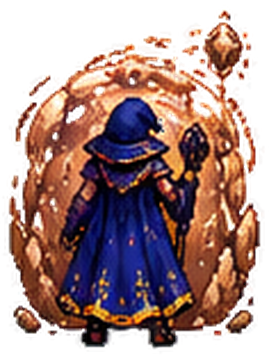
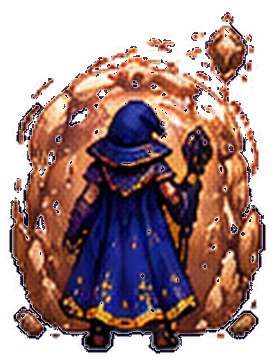
v44: contorno e limpeza de pontos brancos, projéteis de luz, brilho no cajado, poses de carregamento, sem andar, idle calmo
Claude-Session: https://claude.ai/code/session_01YFC38PcyDKAfPNhJ7r1cKG

diff --git a/mage.js b/mage.js
@@ -4,7 +4,7 @@
    Só a Maga usa isto; os outros personagens continuam como imagem/sprite sheets. */
 (() => {
 'use strict';
-const POSES = ['idle1','idle2','idle3','idle4','atk1','atk2','atk3','fire','water','air','earth','castdef','defmana','deffire','defwater','defair','defearth','dodge1','dodge2','dodge3','dodge4','bh1','bh2','walk1','walk2','walk3','walk4','walk5','run1','run2','run3','run4','spin1','stars','spinwide','swingf','swingl','swingr'];
+const POSES = ['idle1','idle2','idle3','idle4','atk1','atk2','atk3','fire','water','air','earth','castdef','defmana','deffire','defwater','defair','defearth','dodge1','dodge2','dodge3','dodge4','bh1','bh2','spin1','stars','spinwide','swingf','swingl','swingr'];
 const FXS = ['comet','orbb','fire_fall','water_pillar','air_swirl','earth_spikes','rock','bh_small','bh_spikes','bh_big','bh_big2','bolt','cross','crystal','whirl','mana_aura','orb_red','orb_orange','orb_blue','star_big','star_small','rocks'];
 const T = {x:517, y:340};                                    // alvo no chefe (design 1024x1536)
 const BASE = 258;                                            // linha da barra do manto dentro do sprite 209x284
@@ -18,29 +18,35 @@ const seg = (u, a, b) => clamp((u - a) / (b - a));
 const S = (d, steps, ev = [], o = {}) => ({dur:d, steps, ev, ...o});
 const ACT = {
   melee:[
-    S(1050, [[0,'idle1'],[.12,'atk1',{dx:-4,rot:-2}],[.3,'atk2',{dx:-8,rot:-4}],[.48,'atk3',{dx:6,dy:-6,rot:3}],[.8,'atk3',{dx:2,rot:1}],[.96,'idle1']], [[.47,'shot:orbb:1'],[.78,'hit:small']]),
-    S(1250, [[0,'idle1'],[.14,'atk1',{dx:-6}],[.36,'swingf',{dx:-2}],[.52,'swingf',{dx:10}],[.8,'swingf',{dx:6}],[.96,'idle1']], [[.4,'shot:orbb:1'],[.66,'hit:small']]),
-    S(1500, [[0,'idle1'],[.1,'atk1',{dx:-4}],[.26,'swingr',{dx:-4,rot:-2}],[.46,'swingl',{dx:4,rot:2}],[.72,'swingl',{dx:6}],[.96,'idle1']], [[.3,'shot:orbb:.9'],[.5,'shot:orbb:1'],[.72,'hit:small']]),
-    S(1500, [[0,'idle1'],[.12,'atk1',{dx:-4}],[.3,'spin1',{dy:-6}],[.48,'spinwide',{dy:-12,rot:3}],[.66,'stars',{dy:-4}],[.82,'stars'],[.96,'idle1']], [[.32,'cheer'],[.56,'shot:orbb:1'],[.78,'hit:small']]),
-    S(1700, [[0,'idle1'],[.08,'run1',{dy:-4}],[.17,'run2',{dy:-18,sc:.97}],[.26,'run3',{dy:-34,sc:.94}],[.35,'run4',{dy:-48,sc:.92}],[.46,'atk3',{dy:-48,sc:.92,rot:3}],[.6,'atk3',{dy:-48,sc:.92}],[.7,'dodge2',{dx:10,dy:-24,sc:.96}],[.8,'dodge4',{dy:-8}],[.95,'idle1']], [[.46,'shot:orbb:1'],[.58,'hit:small']]),
+    S(1050, [[0,'idle1'],[.12,'atk1',{dx:-4,rot:-2}],[.3,'atk2',{dx:-8,rot:-4}],[.48,'atk3',{dx:6,dy:-6,rot:3}],[.8,'atk3',{dx:2,rot:1}],[.96,'idle1']], [[.2,'charge'],[.47,'shot:orbb:1'],[.78,'hit:small']]),
+    S(1300, [[0,'idle1'],[.14,'atk1',{dx:-6}],[.36,'swingf',{dx:-2}],[.52,'swingf',{dx:10}],[.8,'swingf',{dx:6}],[.96,'idle1']], [[.3,'charge'],[.4,'shot:orbb:1'],[.66,'hit:small']]),
+    S(1600, [[0,'idle1'],[.1,'atk1',{dx:-4}],[.26,'swingr',{dx:-4,rot:-2}],[.46,'swingl',{dx:4,rot:2}],[.72,'swingl',{dx:6}],[.96,'idle1']], [[.3,'shot:orbb:.9'],[.5,'shot:orbb:1'],[.72,'hit:small']]),
+    S(1600, [[0,'idle1'],[.12,'atk1',{dx:-4}],[.3,'spin1',{dy:-6}],[.48,'spinwide',{dy:-12,rot:3}],[.66,'stars',{dy:-4}],[.82,'stars'],[.96,'idle1']], [[.32,'cheer'],[.56,'shot:orbb:1'],[.78,'hit:small']]),
+    S(1500, [[0,'idle1'],[.14,'air',{dx:-4}],[.34,'swingf',{dx:4}],[.62,'swingf',{dx:8}],[.96,'idle1']], [[.14,'charge'],[.38,'shot:orbb:1'],[.64,'hit:small']]),
+    S(1600, [[0,'idle1'],[.12,'atk2',{dx:-8,rot:-4}],[.3,'swingr',{dx:-2}],[.5,'atk3',{dx:6,dy:-6,rot:3}],[.8,'atk3',{dx:2}],[.96,'idle1']], [[.32,'cheer'],[.52,'shot:orbb:1'],[.76,'hit:small']]),
+    S(1500, [[0,'idle1'],[.14,'earth',{dx:-4}],[.34,'swingl',{dx:2}],[.58,'swingl',{dx:8}],[.96,'idle1']], [[.16,'charge'],[.4,'shot:orbb:1'],[.64,'hit:small']]),
   ],
   cast:[
-    S(1700, [[0,'idle1'],[.1,'atk1',{dx:-4}],[.3,'atk2',{dx:-10,rot:-4}],[.52,'atk3',{dx:6,dy:-8,rot:3}],[.82,'atk3'],[.97,'idle1']], [[.22,'charge'],[.52,'shot:orbb:1.5'],[.8,'hit:mana']]),
-    S(1900, [[0,'idle1'],[.1,'atk1',{dx:-6}],[.3,'stars',{dy:-6}],[.5,'spin1',{dy:-10}],[.68,'swingf',{dx:6}],[.9,'swingf',{dx:8}],[.98,'idle1']], [[.18,'charge'],[.34,'charge'],[.68,'shot:orbb:1.5'],[.86,'hit:mana']]),
+    S(1700, [[0,'idle1'],[.1,'atk1',{dx:-4}],[.3,'atk2',{dx:-10,rot:-4}],[.52,'atk3',{dx:6,dy:-8,rot:3}],[.82,'atk3'],[.97,'idle1']], [[.22,'charge'],[.52,'shot:orbb:1.5'],[.8,'hit:mana']], {col:'110,170,255'}),
+    S(2000, [[0,'idle1'],[.1,'atk1',{dx:-6}],[.3,'stars',{dy:-6}],[.5,'spin1',{dy:-10}],[.68,'swingf',{dx:6}],[.9,'swingf',{dx:8}],[.98,'idle1']], [[.18,'charge'],[.34,'charge'],[.68,'shot:orbb:1.5'],[.86,'hit:mana']], {col:'110,170,255'}),
+    S(2100, [[0,'idle1'],[.1,'castdef',{dx:-2}],[.3,'castdef',{dy:-4}],[.5,'castdef',{dy:-8}],[.62,'atk3',{dx:6,dy:-8,rot:3}],[.86,'atk3'],[.98,'idle1']], [[.12,'charge'],[.3,'charge'],[.5,'charge'],[.64,'shot:orbb:1.5'],[.86,'hit:mana']], {col:'110,170,255'}),
+    S(2300, [[0,'idle1'],[.1,'castdef'],[.26,'defmana',{dy:-4}],[.56,'defmana',{dy:-8}],[.68,'atk3',{dx:6,dy:-8,rot:3}],[.88,'atk3'],[.98,'idle1']], [[.14,'charge'],[.3,'charge'],[.5,'charge'],[.7,'shot:orbb:1.6'],[.9,'hit:mana']], {col:'120,170,255'}),
+    S(1900, [[0,'idle1'],[.1,'water',{dx:-4}],[.45,'water',{dy:-5}],[.58,'atk3',{dx:6,dy:-8,rot:3}],[.86,'atk3'],[.98,'idle1']], [[.12,'charge'],[.34,'charge'],[.6,'shot:orbb:1.5'],[.84,'hit:mana']], {col:'70,170,255'}),
   ],
   heavy:[
-    S(2300, [[0,'idle1'],[.1,'atk1',{dx:-6}],[.35,'atk2',{dx:-14,rot:-5}],[.55,'atk3',{dx:8,dy:-10,rot:4}],[.86,'atk3',{dx:2}],[.98,'idle1']], [[.15,'charge'],[.3,'charge'],[.56,'shot:comet:1.9'],[.82,'hit:big']]),
-    S(2500, [[0,'idle1'],[.08,'atk1',{dx:-6}],[.22,'spin1',{dy:-8}],[.36,'spinwide',{dy:-16,rot:-3}],[.5,'stars',{dy:-12}],[.64,'swingr',{dx:4,dy:-6}],[.9,'swingr',{dx:8}],[.98,'idle1']], [[.14,'charge'],[.3,'charge'],[.46,'charge'],[.64,'shot:comet:1.9'],[.82,'hit:big']]),
+    S(2300, [[0,'idle1'],[.1,'atk1',{dx:-6}],[.35,'atk2',{dx:-14,rot:-5}],[.55,'atk3',{dx:8,dy:-10,rot:4}],[.86,'atk3',{dx:2}],[.98,'idle1']], [[.15,'charge'],[.3,'charge'],[.56,'shot:comet:1.9'],[.82,'hit:big']], {col:'160,140,255'}),
+    S(2600, [[0,'idle1'],[.08,'atk1',{dx:-6}],[.22,'spin1',{dy:-8}],[.36,'spinwide',{dy:-16,rot:-3}],[.5,'stars',{dy:-12}],[.64,'swingr',{dx:4,dy:-6}],[.9,'swingr',{dx:8}],[.98,'idle1']], [[.14,'charge'],[.3,'charge'],[.46,'charge'],[.64,'shot:comet:1.9'],[.82,'hit:big']], {col:'160,140,255'}),
+    S(2700, [[0,'idle1'],[.08,'castdef'],[.24,'defmana',{dy:-4}],[.5,'defmana',{dy:-10}],[.62,'atk2',{dx:-8,rot:-4}],[.74,'atk3',{dx:8,dy:-10,rot:4}],[.92,'atk3'],[.98,'idle1']], [[.1,'charge'],[.26,'charge'],[.42,'charge'],[.56,'charge'],[.74,'shot:comet:2'],[.9,'hit:big']], {col:'160,140,255'}),
+    S(2500, [[0,'idle1'],[.1,'fire',{dx:-4}],[.4,'fire',{dy:-6}],[.55,'swingf',{dx:2}],[.72,'swingf',{dx:10}],[.92,'swingf',{dx:6}],[.98,'idle1']], [[.12,'charge'],[.3,'charge'],[.5,'charge'],[.7,'shot:comet:1.9'],[.88,'hit:big']], {col:'255,130,60'}),
   ],
-  fire:S(1900, [[0,'idle1'],[.1,'fire',{dx:-4}],[.8,'fire',{dx:2}],[.97,'idle1']], [[.4,'shot:orb_red:.9'],[.5,'fire']]),
-  water:S(1900, [[0,'idle1'],[.1,'water',{dx:-4}],[.8,'water',{dx:2}],[.97,'idle1']], [[.4,'shot:orb_blue:.9'],[.5,'water']]),
-  air:S(1900, [[0,'idle1'],[.1,'air',{dx:-4}],[.8,'air',{dx:2}],[.97,'idle1']], [[.4,'shot:orbb:1'],[.5,'air']]),
-  earth:S(1900, [[0,'idle1'],[.1,'earth',{dx:-4}],[.8,'earth',{dx:2}],[.97,'idle1']], [[.4,'shot:orb_orange:.9'],[.5,'earth']]),
+  fire:S(1900, [[0,'idle1'],[.1,'fire',{dx:-4}],[.8,'fire',{dx:2}],[.97,'idle1']], [[.2,'charge'],[.4,'shot:orb_red:.9'],[.5,'fire']], {col:'255,110,40'}),
+  water:S(1900, [[0,'idle1'],[.1,'water',{dx:-4}],[.8,'water',{dx:2}],[.97,'idle1']], [[.2,'charge'],[.4,'shot:orb_blue:.9'],[.5,'water']], {col:'70,170,255'}),
+  air:S(1900, [[0,'idle1'],[.1,'air',{dx:-4}],[.8,'air',{dx:2}],[.97,'idle1']], [[.2,'charge'],[.4,'shot:orbb:1'],[.5,'air']], {col:'150,230,210'}),
+  earth:S(1900, [[0,'idle1'],[.1,'earth',{dx:-4}],[.8,'earth',{dx:2}],[.97,'idle1']], [[.2,'charge'],[.4,'shot:orb_orange:.9'],[.5,'earth']], {col:'230,170,70'}),
   ult:S(5200, [[0,'idle1'],[.06,'atk1',{dx:-4}],[.14,'stars',{dy:-6}],[.22,'spin1',{dy:-10}],[.3,'bh1',{dy:-8,rot:-2}],[.38,'bh2',{dy:-12,rot:2}],[.84,'bh2',{dy:-8}],[.95,'idle1']], [[.06,'charge'],[.16,'charge'],[.3,'bhopen'],[.5,'bhbig'],[.76,'bhend']]),
   dodge:[
     S(1050, [[0,'idle1'],[.08,'dodge1',{dx:-6}],[.26,'dodge2',{dx:-40,dy:-4}],[.46,'dodge3',{dx:-56,dy:2}],[.66,'dodge4',{dx:-30}],[.88,'idle1']], [], {ghost:true}),
     S(1050, [[0,'idle1'],[.08,'dodge1',{dx:6}],[.26,'dodge2',{dx:40,dy:-4}],[.46,'dodge3',{dx:56,dy:2}],[.66,'dodge4',{dx:30}],[.88,'idle1']], [], {ghost:true, gdir:-1}),
-    S(1100, [[0,'idle1'],[.1,'run1',{dx:-10}],[.22,'run2',{dx:-34}],[.34,'run3',{dx:-60}],[.46,'run4',{dx:-70}],[.62,'dodge4',{dx:-44}],[.88,'idle1']], [], {ghost:true}),
   ],
   hurt:[
     S(750, [[0,'idle1'],[.1,'idle3',{dx:-10,rot:-7}],[.32,'idle3',{dx:6,rot:-3}],[.55,'idle3',{dx:-2}],[.9,'idle1']], [], {tint:true}),
@@ -50,6 +56,7 @@ const ACT = {
     S(1600, [[0,'idle1'],[.25,'idle2'],[.75,'idle3',{dy:2}],[.96,'idle1']]),
     S(1900, [[0,'idle1'],[.2,'atk1'],[.45,'stars',{dy:-4}],[.8,'stars'],[.96,'idle1']]),
     S(1700, [[0,'idle1'],[.25,'idle4',{dx:3}],[.7,'idle2',{dx:-3}],[.96,'idle1']]),
+    S(2000, [[0,'idle1'],[.2,'castdef'],[.55,'castdef',{dy:-3}],[.96,'idle1']], [[.3,'charge']], {col:'110,170,255'}),
   ],
   victory:[
     S(2800, [[0,'idle1'],[.1,'atk1'],[.26,'atk3',{dy:-12,rot:2}],[.4,'atk2',{dy:-3}],[.56,'atk3',{dy:-14,rot:-2}],[.8,'atk3',{dy:-4}],[.96,'idle1']], [[.28,'cheer'],[.58,'cheer']]),
@@ -62,7 +69,7 @@ let lastV = new WeakMap();
 const variant = v => { if (!Array.isArray(v)) return v; if (window.__vi != null) return v[window.__vi % v.length]; const prevI = lastV.get(v) ?? -1; let i; do { i = Math.floor(Math.random() * v.length); } while (v.length > 1 && i === prevI); lastV.set(v, i); return v[i]; };
 const ELEM = {'#ff7a2e':'fire', '#3db4ff':'water', '#9fe8d0':'air', '#c19a52':'earth'};
 const GUARD = {fire:'deffire', water:'defwater', air:'defair', earth:'defearth', mana:'defmana'};
-const IDLE_CYCLE = [['idle1', 1900], ['idle2', 1000], ['idle3', 1700], ['idle4', 1000]];
+const IDLE_CYCLE = [['idle1', 1000]];
 const IDLES = [   // idles extras ocasionais
   S(2600, [[0,'idle1'],[.2,'idle4',{dx:3}],[.7,'idle4',{dx:3}],[.95,'idle1']]),
   S(3000, [[0,'idle1'],[.2,'idle3',{dx:-6,rot:-1.5}],[.55,'idle3',{dx:-6,rot:-1.5}],[.8,'idle2'],[.96,'idle1']]),
@@ -72,13 +79,20 @@ const IDLES = [   // idles extras ocasionais
   S(2900, [[0,'idle1'],[.2,'atk1'],[.38,'spin1',{dy:-4}],[.62,'stars',{dy:-4}],[.85,'atk1'],[.97,'idle1']], [[.3,'charge']]),
 ];
 
+function glow(g, x, y, r, col, a){
+  if (a <= 0.005 || r <= 1) return; const gr = g.createRadialGradient(x, y, 0, x, y, r);
+  gr.addColorStop(0, `rgba(255,255,255,${clamp(a * .6)})`); gr.addColorStop(.16, `rgba(${col},${clamp(a)})`); gr.addColorStop(.5, `rgba(${col},${clamp(a * .32)})`); gr.addColorStop(1, `rgba(${col},0)`);
+  g.save(); g.globalCompositeOperation = 'lighter'; g.fillStyle = gr; g.fillRect(x - r, y - r, r * 2, r * 2); g.restore();
+}
+const GLOW = {orbb:'120,180,255', orb_red:'255,110,40', orb_blue:'70,170,255', orb_orange:'255,170,60', comet:'170,140,255'};
+
 function make(host){
   const {c, cv, Px, Py, W, Hh, world, layers} = host, front = layers.front, fc = front.getContext('2d');
   const cw = cv.width, ch = cv.height, OX = world.x - Px, OY = world.y - Py;      // canvas da Maga → coordenadas do design
   let M = null; const img = {}, fxm = {};
   const load = (k, src) => img[k] || (img[k] = Object.assign(new Image(), {src}));
   fetch('mage3/meta.json').then(r => r.json()).then(j => { M = j; POSES.forEach(n => load(n, `mage3/${n}.png`)); FXS.forEach(n => load('fx_' + n, `mage3/fx_${n}.png`)); }).catch(() => {});
-  let fxl = [], cur = null, shakeT = 0, flashT = 0, last = 0, t0 = clk(), running = false;
+  let chargeT = -9999, orbVis = 0, fxl = [], cur = null, shakeT = 0, flashT = 0, last = 0, t0 = clk(), running = false;
   let dead = 0, deadTarget = 0, prev = null, curPose = null, orbW = {x:world.x + 150, y:world.y + 60};
   const ready = n => img[n] && img[n].complete && img[n].naturalWidth;
 
@@ -86,18 +100,28 @@ function make(host){
   const E = (name, d, f, o = {}) => fxl.push({name, d, f, t0: clk() + (o.delay || 0), add: o.add !== false});
   const orbPos = () => ({...orbW});
   const dir = (a, b) => Math.atan2(b.y - a.y, b.x - a.x);
-  function shot(name, size){                                          // projétil do orbe até o alvo
-    const a = orbPos(), b = T, d = 380 + Math.hypot(b.x - a.x, b.y - a.y) * .55, ang = dir(a, b);
-    E('fx_' + name, d, u => { const e = ei(u * .6 + .4 * u * u) * 0 + Math.pow(u, 1.6); return {x:lerp(a.x, b.x, e), y:lerp(a.y, b.y, e) - Math.sin(Math.PI * u) * 35, s:size * 1.8 * (.75 + .4 * u), rot:name === 'comet' ? ang + 1.57 : u * 6, a:u < .08 ? u / .08 : u > .93 ? (1 - u) / .07 : 1}; });
-    if (Math.random() < 2) for (let i = 0; i < 6; i++) E('fx_star_small', 320, u => ({x:lerp(a.x, b.x, Math.pow(i / 6 * .9 + .05, 1.6) + u * .05), y:lerp(a.y, b.y, Math.pow(i / 6 * .9 + .05, 1.6)) - Math.sin(Math.PI * (i / 6 * .9 + .05)) * 60, s:.6 * (1 - u), a:1 - u}), {delay:i * d / 7});
+  function shot(name, size){                                          // projétil de luz: halo, rastro suave e fagulhas
+    const a = orbPos(), b = T, dist = Math.hypot(b.x - a.x, b.y - a.y), d = 560 + dist * .55, ang = dir(a, b), col = GLOW[name] || '120,180,255', k = rnd(-1, 1) * 26;
+    const path = u => { const e = Math.pow(u, 1.8), w = Math.sin(Math.PI * u); return {x:lerp(a.x, b.x, e) + k * w + Math.sin(u * 11) * 6 * w, y:lerp(a.y, b.y, e) - w * 46}; };
+    const fade = u => u < .1 ? u / .1 : u > .94 ? (1 - u) / .06 : 1;
+    E('glow', d, u => { const p = path(u); return {x:p.x, y:p.y, r:(70 + 22 * Math.sin(u * 28)) * size * (.6 + .6 * u), c:col, a:.85 * fade(u)}; });
+    E('fx_' + name, d, u => { const p = path(u); return {x:p.x, y:p.y, s:size * 1.5 * (.55 + .55 * Math.sin(Math.min(1, u * 1.3) * 1.57)), rot:name === 'comet' ? ang + 1.57 : Math.sin(u * 6) * .35, a:fade(u) * .95}; });
+    for (let i = 1; i <= 11; i++) { const ut = i / 12, p = path(ut); E('glow', 520, v => ({x:p.x + Math.sin(i * 3) * 6 * v, y:p.y - 12 * v, r:(54 * size) * (1 - v * .6), c:col, a:.5 * (1 - v)}), {delay:ut * d}); }
+    for (let i = 0; i < 9; i++) { const ut = (i + .5) / 9 * .95, p = path(ut), ox = rnd(-18, 18), oy = rnd(-18, 18); E('fx_star_small', 600, v => ({x:p.x + ox * v, y:p.y + oy * v - 16 * v, s:.55 * (1 - v), rot:v * 2, a:1 - v}), {delay:ut * d}); }
   }
   function hit(kind){
-    if (kind === 'small') { E('fx_star_big', 520, u => ({...T, s:lerp(.4, 1.1, eo(u)), a:u < .1 ? u / .1 : 1 - seg(u, .1, 1)})); }
-    else if (kind === 'mana') { E('fx_star_big', 700, u => ({...T, s:lerp(.4, 1.7, eo(u)), a:u < .1 ? u / .1 : 1 - seg(u, .1, 1)})); E('fx_orb_blue', 600, u => ({...T, s:lerp(.5, 1.5, eo(u)), a:1 - u})); E('fx_cross', 500, u => ({...T, s:lerp(.4, 1.4, eo(u)), a:1 - u})); }
-    else { E('fx_star_big', 900, u => ({...T, s:lerp(.5, 2.3, eo(u)), a:u < .08 ? u / .08 : 1 - seg(u, .08, 1)})); E('fx_mana_aura', 800, u => ({...T, s:lerp(.4, 2.2, eo(u)), a:(1 - u) * .9})); E('fx_cross', 650, u => ({...T, s:lerp(.4, 2, eo(u)), a:1 - u})); E('fx_crystal', 550, u => ({x:T.x, y:T.y - 20, s:lerp(.5, 1.8, eo(u)), a:1 - u}), {delay:80}); shakeT = clk(); }
+    const bl = (r, c, a, dl = 0, d = 650) => E('glow', d, u => ({...T, r:r * (.4 + eo(u) * .9), c, a:a * (1 - u) * (u < .08 ? u / .08 : 1)}), {delay:dl});
+    if (kind === 'small') { bl(120, '140,190,255', .9); E('fx_star_big', 560, u => ({...T, s:lerp(.4, .95, eo(u)), a:(u < .1 ? u / .1 : 1 - seg(u, .1, 1)) * .8})); }
+    else if (kind === 'mana') { bl(190, '120,180,255', 1, 0, 800); bl(120, '255,255,255', .8, 0, 450); E('fx_star_big', 700, u => ({...T, s:lerp(.4, 1.5, eo(u)), a:(u < .1 ? u / .1 : 1 - seg(u, .1, 1)) * .8})); E('fx_orb_blue', 650, u => ({...T, s:lerp(.5, 1.5, eo(u)), a:(1 - u) * .8})); E('fx_cross', 520, u => ({...T, s:lerp(.4, 1.3, eo(u)), a:(1 - u) * .8})); }
+    else { bl(280, '170,140,255', 1, 0, 1000); bl(160, '255,255,255', .9, 0, 520); bl(220, '120,180,255', .7, 120, 900); E('fx_star_big', 900, u => ({...T, s:lerp(.5, 2.1, eo(u)), a:(u < .08 ? u / .08 : 1 - seg(u, .08, 1)) * .85})); E('fx_mana_aura', 800, u => ({...T, s:lerp(.4, 2, eo(u)), a:(1 - u) * .7})); E('fx_cross', 650, u => ({...T, s:lerp(.4, 1.9, eo(u)), a:(1 - u) * .8})); E('fx_crystal', 550, u => ({x:T.x, y:T.y - 20, s:lerp(.5, 1.7, eo(u)), a:(1 - u) * .8}), {delay:80}); shakeT = clk(); }
   }
   const EV = {
-    charge(){ const o = orbPos(); E('fx_orb_blue', 900, u => ({...orbPos(), s:lerp(.2, 1.1, eo(u)), a:u < .3 ? u / .3 : 1 - seg(u, .3, 1)}), {}); E('fx_star_small', 900, u => ({...orbPos(), s:.5 + u, rot:u * 3, a:1 - u})); },
+    charge(){
+      chargeT = clk(); const col = (cur && cur.a.col) || '120,180,255';
+      E('glow', 1000, u => ({...orbPos(), r:lerp(30, 120, eo(u)), c:col, a:.9 * Math.sin(Math.PI * Math.min(1, u * 1.15))}));
+      E('fx_mana_aura', 1100, u => ({x:world.x + W / 2, y:world.y + BASE - 4, s:lerp(.6, .85, u), sy:.3, a:.5 * Math.sin(Math.PI * u)}));
+      for (let i = 0; i < 8; i++) { const an = i * .79 + rnd(0, .5); E('fx_star_small', 760, u => { const r = 100 * (1 - eo(u)) + 8, o = orbPos(); return {x:o.x + Math.cos(an + u * 2) * r, y:o.y + Math.sin(an + u * 2) * r * .8, s:.6 * (.5 + u * .5), rot:u * 3, a:Math.sin(Math.PI * u)}; }, {delay:i * 70}); }
+    },
     cheer(){ E('fx_star_big', 700, u => ({...orbPos(), s:lerp(.3, 1.2, eo(u)), a:1 - u})); E('fx_cross', 600, u => ({...orbPos(), s:lerp(.3, 1, eo(u)), a:1 - u})); for (let i = 0; i < 4; i++) E('fx_star_small', 800, u => ({x:orbPos().x + Math.cos(i * 1.7) * 50 * eo(u), y:orbPos().y + Math.sin(i * 1.7) * 40 * eo(u) - 20 * u, s:.7 * (1 - u), a:1 - u}), {delay:i * 90}); },
     fire(){ E('fx_fire_fall', 760, u => ({x:T.x, y:lerp(T.y - 360, T.y + 30, ei(u)), s:lerp(1.1, 1.5, u), a:u > .94 ? (1 - u) / .06 : 1})); E('fx_orb_orange', 700, u => ({x:T.x, y:T.y + 20, s:lerp(.4, 1.5, eo(u)), a:1 - u}), {delay:700}); E('fx_orb_red', 600, u => ({x:T.x, y:T.y + 20, s:lerp(.4, 1.5, eo(u)), a:1 - u}), {delay:720}); shakeT = clk() + 700; },
     water(){ E('fx_water_pillar', 1100, u => ({x:T.x, y:T.y + 90, s:1.4, sy:lerp(.15, 1, eo(Math.min(1, u * 2.2))), anchorB:1, a:u < .1 ? u / .1 : u > .7 ? (1 - u) / .3 : 1})); E('fx_orb_blue', 700, u => ({x:T.x, y:T.y - 20, s:lerp(.4, 2, eo(u)), a:1 - u}), {delay:350}); },
@@ -152,12 +176,16 @@ function make(host){
     if (a && a.ghost) { const g = Math.sin(clamp(pe) * Math.PI); const gd = a.gdir || 1; drawPose(st.pose, st.dx + 46 * g * gd, st.dy, st.rot, .18 * g, tm, 0, st.sc || 1); drawPose(st.pose, st.dx + 90 * g * gd, st.dy, st.rot, .10 * g, tm, 0, st.sc || 1); }
     if (prev && f < 1) drawPose(prev.pose, prev.dx, prev.dy, prev.rot, 1, tm, tint, prev.sc);
     const o = drawPose(st.pose, st.dx, st.dy + dDy, st.rot + dRot, (prev && f < 1 ? f : 1) * dAl, tm, tint, st.sc || 1);
-    if (!o && M.poses[st.pose] && M.poses[st.pose].orb == null) {} else if (o) orbW = o;
+    if (o) orbW = o; orbVis += ((o ? 1 : 0) - orbVis) * .18;
     // ---- efeitos (camada da frente, coordenadas do design)
     fc.clearRect(0, 0, front.width, front.height);
+    if (orbVis > .02 && dead < .3) { const cb = Math.max(0, 1 - (now - chargeT) / 1100), col = (cur && cur.a.col) || '120,180,255', pulse = .5 + .5 * Math.sin(tm / 330);
+      glow(fc, orbW.x, orbW.y, (30 + 7 * pulse + 40 * cb) * (cur ? 1.15 : 1), col, orbVis * (.42 + .2 * pulse + .35 * cb)); }
     fxl = fxl.filter(e => {
       const u = (now - e.t0) / e.d; if (u < 0) return true; if (u >= 1) return false;
-      const s = e.f(u), im = img[e.name]; if (!ready(e.name) || !s) return true;
+      const s = e.f(u), im = img[e.name];
+      if (e.name === 'glow') { if (!s) return true; glow(fc, s.x, s.y, s.r, s.c, s.a); return true; }
+      if (!ready(e.name) || !s) return true;
       const w = im.naturalWidth * (s.s || 1) * (s.sx || 1), h = im.naturalHeight * (s.s || 1) * (s.sy || 1);
       fc.save(); fc.globalAlpha = clamp(s.a == null ? 1 : s.a); fc.globalCompositeOperation = e.add ? 'lighter' : 'source-over'; fc.translate(s.x, s.y); if (s.rot) fc.rotate(s.rot);
       fc.drawImage(im, -w / 2, s.anchorB ? -h : -h / 2, w, h); fc.restore(); return true;

diff --git a/sw.js b/sw.js
@@ -1,5 +1,5 @@
-const CACHE='bd1-rpg-v43';
-const ASSETS=['./','./index.html','./game.html','./lobby.js','./lobby.css','./select_plate.webp','./char_mage.webp','./char_knight.webp','./char_tank.webp','./char_assassin.webp','./panel_mage.webp','./panel_knight.webp','./panel_tank.webp','./panel_assassin.webp','./style.css','./app.js','./anim.js','./mage.js','./mage3/air.png','./mage3/atk1.png','./mage3/atk2.png','./mage3/atk3.png','./mage3/bh1.png','./mage3/bh2.png','./mage3/castdef.png','./mage3/defair.png','./mage3/defearth.png','./mage3/deffire.png','./mage3/defmana.png','./mage3/defwater.png','./mage3/dodge1.png','./mage3/dodge2.png','./mage3/dodge3.png','./mage3/dodge4.png','./mage3/earth.png','./mage3/fire.png','./mage3/fx_air_swirl.png','./mage3/fx_bh_big.png','./mage3/fx_bh_big2.png','./mage3/fx_bh_small.png','./mage3/fx_bh_spikes.png','./mage3/fx_bolt.png','./mage3/fx_comet.png','./mage3/fx_cross.png','./mage3/fx_crystal.png','./mage3/fx_earth_spikes.png','./mage3/fx_fire_fall.png','./mage3/fx_mana_aura.png','./mage3/fx_orb_blue.png','./mage3/fx_orb_orange.png','./mage3/fx_orb_red.png','./mage3/fx_orbb.png','./mage3/fx_ring_floor.png','./mage3/fx_rock.png','./mage3/fx_rocks.png','./mage3/fx_star_big.png','./mage3/fx_star_small.png','./mage3/fx_water_pillar.png','./mage3/fx_whirl.png','./mage3/idle1.png','./mage3/idle2.png','./mage3/idle3.png','./mage3/idle4.png','./mage3/meta.json','./mage3/run1.png','./mage3/run2.png','./mage3/run3.png','./mage3/run4.png','./mage3/spin1.png','./mage3/spinwide.png','./mage3/stars.png','./mage3/swingf.png','./mage3/swingl.png','./mage3/swingr.png','./mage3/walk1.png','./mage3/walk2.png','./mage3/walk3.png','./mage3/walk4.png','./mage3/walk5.png','./mage3/water.png','./anim/manifest.json','./spr_mage.webp','./spr_knight.webp','./spr_tank.webp','./spr_assassin.webp','./spr_boss.webp','./game_clean.png','./question_panel.png','./icon_attack.png','./icon_coin.png','./manifest.webmanifest','./potion_hp.png','./potion_mana.png'];
+const CACHE='bd1-rpg-v44';
+const ASSETS=['./','./index.html','./game.html','./lobby.js','./lobby.css','./select_plate.webp','./char_mage.webp','./char_knight.webp','./char_tank.webp','./char_assassin.webp','./panel_mage.webp','./panel_knight.webp','./panel_tank.webp','./panel_assassin.webp','./style.css','./app.js','./anim.js','./mage.js','./mage3/air.png','./mage3/atk1.png','./mage3/atk2.png','./mage3/atk3.png','./mage3/bh1.png','./mage3/bh2.png','./mage3/castdef.png','./mage3/defair.png','./mage3/defearth.png','./mage3/deffire.png','./mage3/defmana.png','./mage3/defwater.png','./mage3/dodge1.png','./mage3/dodge2.png','./mage3/dodge3.png','./mage3/dodge4.png','./mage3/earth.png','./mage3/fire.png','./mage3/fx_air_swirl.png','./mage3/fx_bh_big.png','./mage3/fx_bh_big2.png','./mage3/fx_bh_small.png','./mage3/fx_bh_spikes.png','./mage3/fx_bolt.png','./mage3/fx_comet.png','./mage3/fx_cross.png','./mage3/fx_crystal.png','./mage3/fx_earth_spikes.png','./mage3/fx_fire_fall.png','./mage3/fx_mana_aura.png','./mage3/fx_orb_blue.png','./mage3/fx_orb_orange.png','./mage3/fx_orb_red.png','./mage3/fx_orbb.png','./mage3/fx_ring_floor.png','./mage3/fx_rock.png','./mage3/fx_rocks.png','./mage3/fx_star_big.png','./mage3/fx_star_small.png','./mage3/fx_water_pillar.png','./mage3/fx_whirl.png','./mage3/idle1.png','./mage3/idle2.png','./mage3/idle3.png','./mage3/idle4.png','./mage3/meta.json','./mage3/spin1.png','./mage3/spinwide.png','./mage3/stars.png','./mage3/swingf.png','./mage3/swingl.png','./mage3/swingr.png','./mage3/water.png','./anim/manifest.json','./spr_mage.webp','./spr_knight.webp','./spr_tank.webp','./spr_assassin.webp','./spr_boss.webp','./game_clean.png','./question_panel.png','./icon_attack.png','./icon_coin.png','./manifest.webmanifest','./potion_hp.png','./potion_mana.png'];
 // Tudo em cache (abre instantâneo, até offline). Em segundo plano o SW confere a rede (requisição condicional, barata);
 // se algum arquivo mudou, atualiza o cache e avisa a página, que recarrega sozinha (menu) ou mostra o aviso (jogo).
 const keyOf=u=>{const x=new URL(u);return x.origin+x.pathname};

diff --git a/anim.js b/anim.js
@@ -96,7 +96,7 @@ async function play(w, name, opts = {}){
 function scheduleIdle(w, delay){
   const h = H[w]; if (!h) return; clearTimeout(h.idleT);
   h.idleT = setTimeout(async () => {
-    if (h.rig && !h.cur && !h.dead && !document.hidden) { h.cur = 'idle'; await h.rig.idle(); h.cur = null; return scheduleIdle(w, rnd(1500, 4200)); }
+    if (h.rig && !h.cur && !h.dead && !document.hidden) { h.cur = 'idle'; await h.rig.idle(); h.cur = null; return scheduleIdle(w, rnd(4500, 10000)); }
     if (h.cur || h.dead || document.hidden || !h.sheets.idle) return scheduleIdle(w, rnd(1500, 3500));
     h.cur = 'idle'; await playSheet(w, pick(h.sheets.idle)); h.cur = null; scheduleIdle(w, rnd(1500, 4000));
   }, delay);

diff --git a/tools/post_outline.py b/tools/post_outline.py
@@ -1,0 +1,54 @@
+# Pós-processa mage3/*.png (poses): remove pontos brancos, pinta franjas claras de azul-escuro e adiciona contorno escuro de 1-2px.
+import numpy as np, json, glob, os
+from PIL import Image
+from scipy import ndimage as ndi
+D = 'mage3'; M = json.load(open(f'{D}/meta.json')); P = 3
+NAVY = np.array([14, 12, 42], np.uint8)
+for name, m in M['poses'].items():
+    if m.get('outlined'): continue
+    im = np.array(Image.open(f'{D}/{name}.png').convert('RGBA'))
+    im = np.pad(im, ((P, P), (P, P), (0, 0)))
+    a = im[..., 3].astype(int); rgb = im[..., :3].astype(int)
+    near_orb = np.zeros(a.shape, bool)
+    if m.get('orb'):
+        ox, oy = m['orb'][0] + P, m['orb'][1] + P; yy, xx = np.mgrid[:a.shape[0], :a.shape[1]]; near_orb = (xx - ox) ** 2 + (yy - oy) ** 2 < 26 ** 2
+    mn = rgb.min(2); sat = rgb.max(2) - mn; whitish = (mn > 140) & (sat < 70)
+    solid = a >= 110
+    # 1) componentes soltos pequenos
+    l, k = ndi.label(a > 20)
+    if k:
+        ar = ndi.sum(np.ones_like(l), l, range(1, k + 1))
+        for i in np.where(ar < 40)[0]:
+            r = l == i + 1
+            if not (r & near_orb).any(): im[r] = 0
+        a = im[..., 3].astype(int)
+    # 2) franja clara na borda (até 3px do fundo) e semitransparentes claros → azul-escuro
+    lum = rgb.mean(2); fxpix = (rgb[..., 2] > 150) & (lum > 95) | (rgb[..., 0] > 200) & (rgb[..., 1] < 140)
+    bodym = ndi.binary_opening((a >= 90) & (lum < 125) & ~fxpix, iterations=1)
+    lb, kb = ndi.label(bodym)
+    if kb: sb = ndi.sum(bodym, lb, range(1, kb + 1)); bodym = np.isin(lb, np.where(sb > 150)[0] + 1)
+    nb = ndi.binary_dilation(bodym, iterations=4)
+    outside = a < 30; edge = ndi.binary_dilation(outside, iterations=3) & (a > 0) & nb
+    fr = edge & whitish & ~near_orb
+    # 3) pontos brancos internos pequenos (não do orbe)
+    lw, kw = ndi.label(whitish & (a > 60))
+    if kw:
+        sz = ndi.sum(np.ones_like(lw), lw, range(1, kw + 1))
+        for i in np.where(sz < 14)[0]:
+            r = lw == i + 1
+            if not (r & near_orb).any(): fr |= r
+    im[..., :3][fr] = np.where(a[fr][:, None] > 0, np.array([24, 22, 66], np.uint8), 0)
+    im[..., 3][fr & (a < 255) & (a > 0)] = np.maximum(a[fr & (a < 255) & (a > 0)], 200)
+    # 4) contorno escuro (2px) fora do corpo, exceto junto ao orbe (brilho)
+    body = bodym; solidall = im[..., 3] >= 90
+    ring = ndi.binary_dilation(body, iterations=2) & ~solidall
+    ring &= ~near_orb
+    im[..., :3][ring] = NAVY; im[..., 3][ring] = 255
+    # contorno suave externo (alpha parcial)
+    ring2 = ndi.binary_dilation(body | ring, iterations=1) & ~solidall & ~ring & ~near_orb
+    im[..., :3][ring2] = NAVY; im[..., 3][ring2] = 120
+    Image.fromarray(im).save(f'{D}/{name}.png')
+    m['w'] += 2 * P; m['h'] += 2 * P; m['cx'] += P; m['gy'] += P
+    if m.get('orb'): m['orb'] = [m['orb'][0] + P, m['orb'][1] + P]
+    m['outlined'] = True
+json.dump(M, open(f'{D}/meta.json', 'w'), default=float)

diff --git a/README.md b/README.md
@@ -182,3 +182,8 @@ Animações por código removidas de vez. `anim.js` toca sprite sheets desenhado
 ## v43
 - Cena da habilidade especial agora termina antes de reabrir o menu de habilidades (todos os grupos).
 - Maga no mesmo tamanho dos outros heróis; golpes de cajado (frontal, lateral), giros no ar, corrida + golpe, esquivas variadas, idles extras e vitórias — variantes sorteadas sem repetir a anterior.
+
+## v44
+- Poses da Maga com contorno escuro e sem pontos brancos (tools/post_outline.py, roda depois de cut_white/bake_grad).
+- Projéteis viraram luz suave com rastro e fagulhas; brilho pulsante no cajado; poses de carregamento (castdef, bolha de mana, mãos elementais).
+- Sem andar/correr; mais variantes de ataque, mágica e golpe forte; idle calmo, movimentos extras raros e aleatórios.
